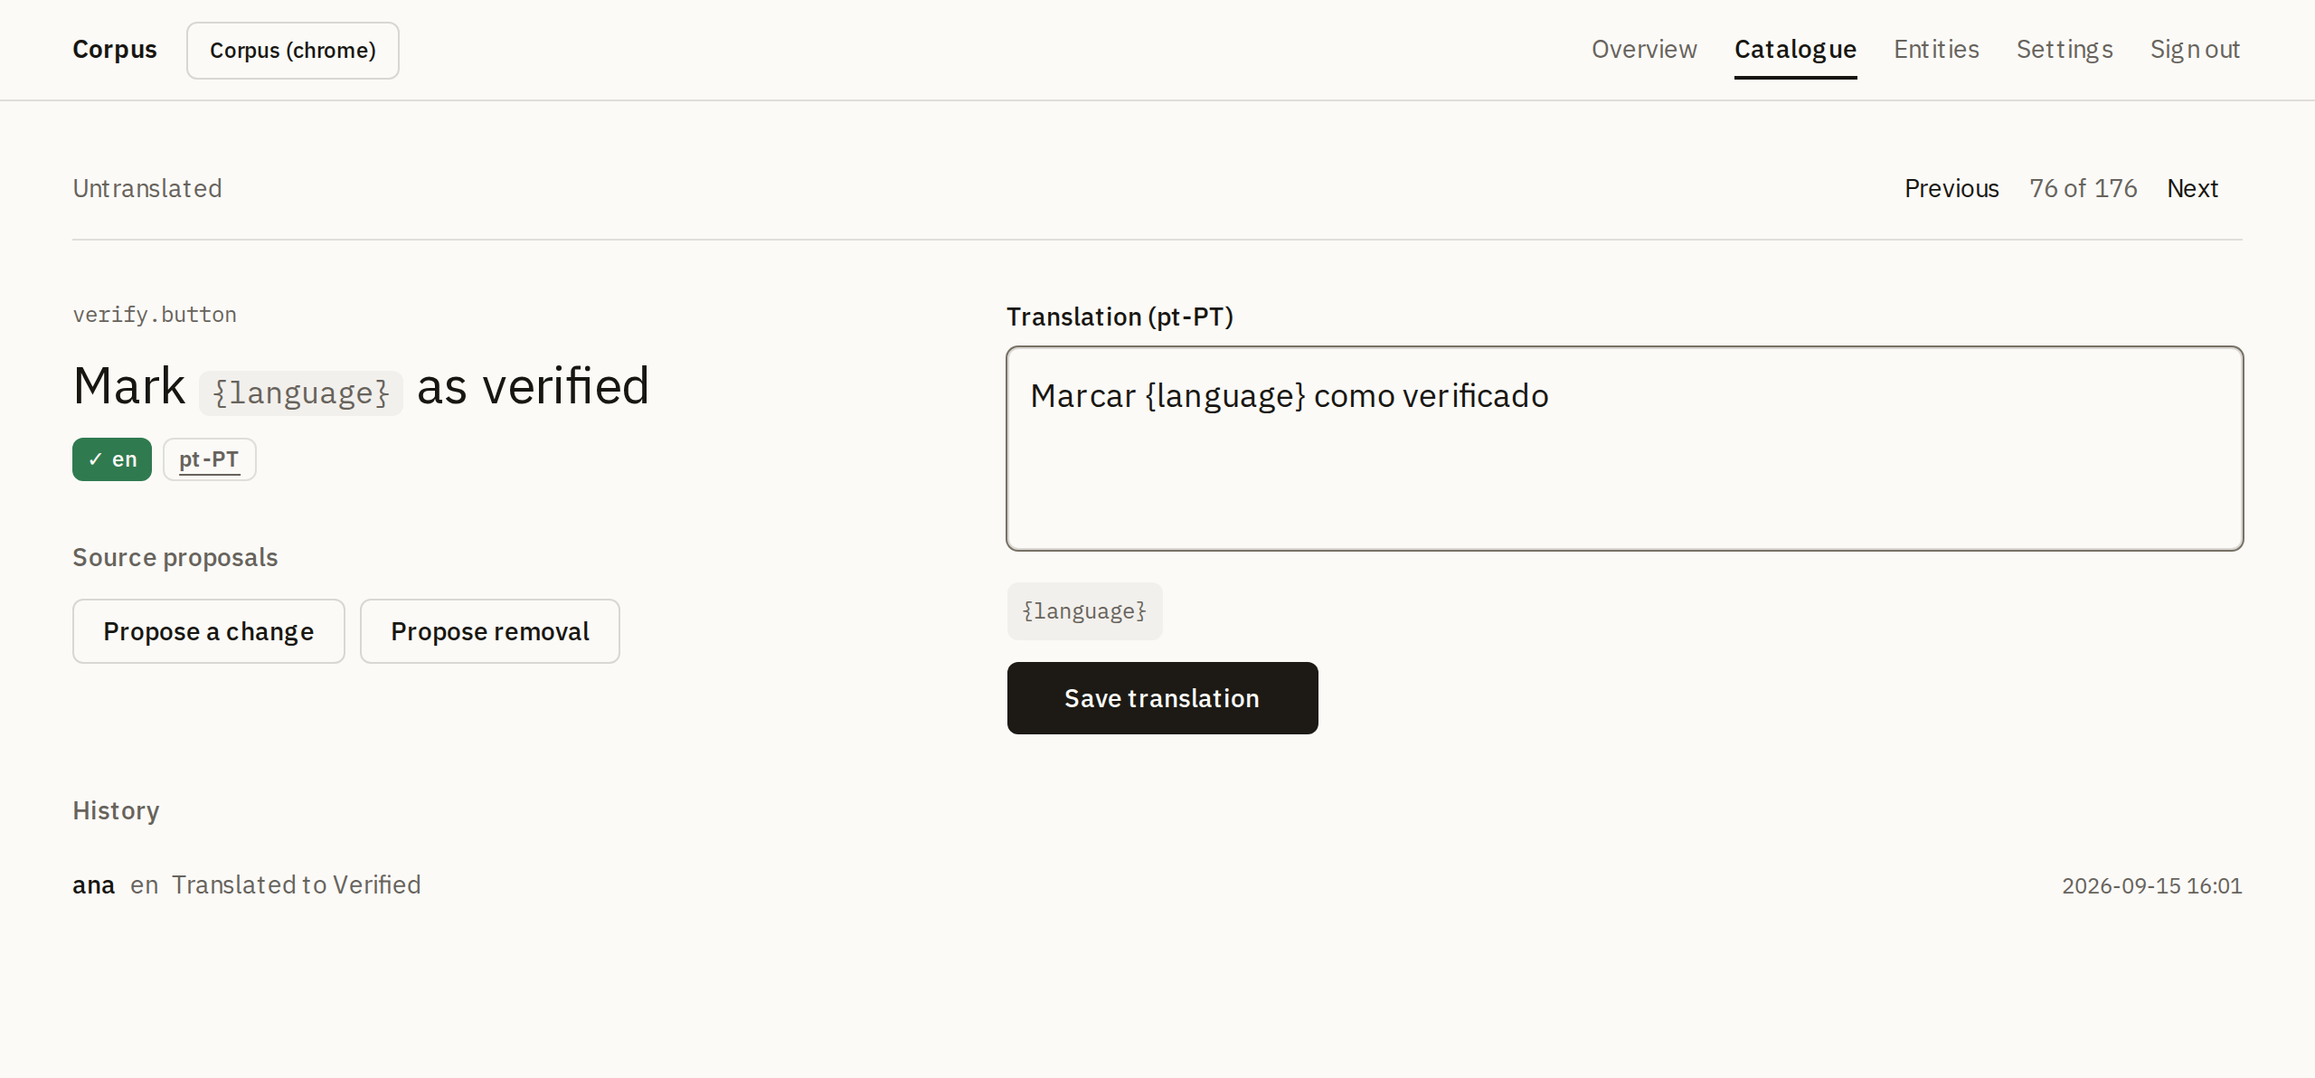
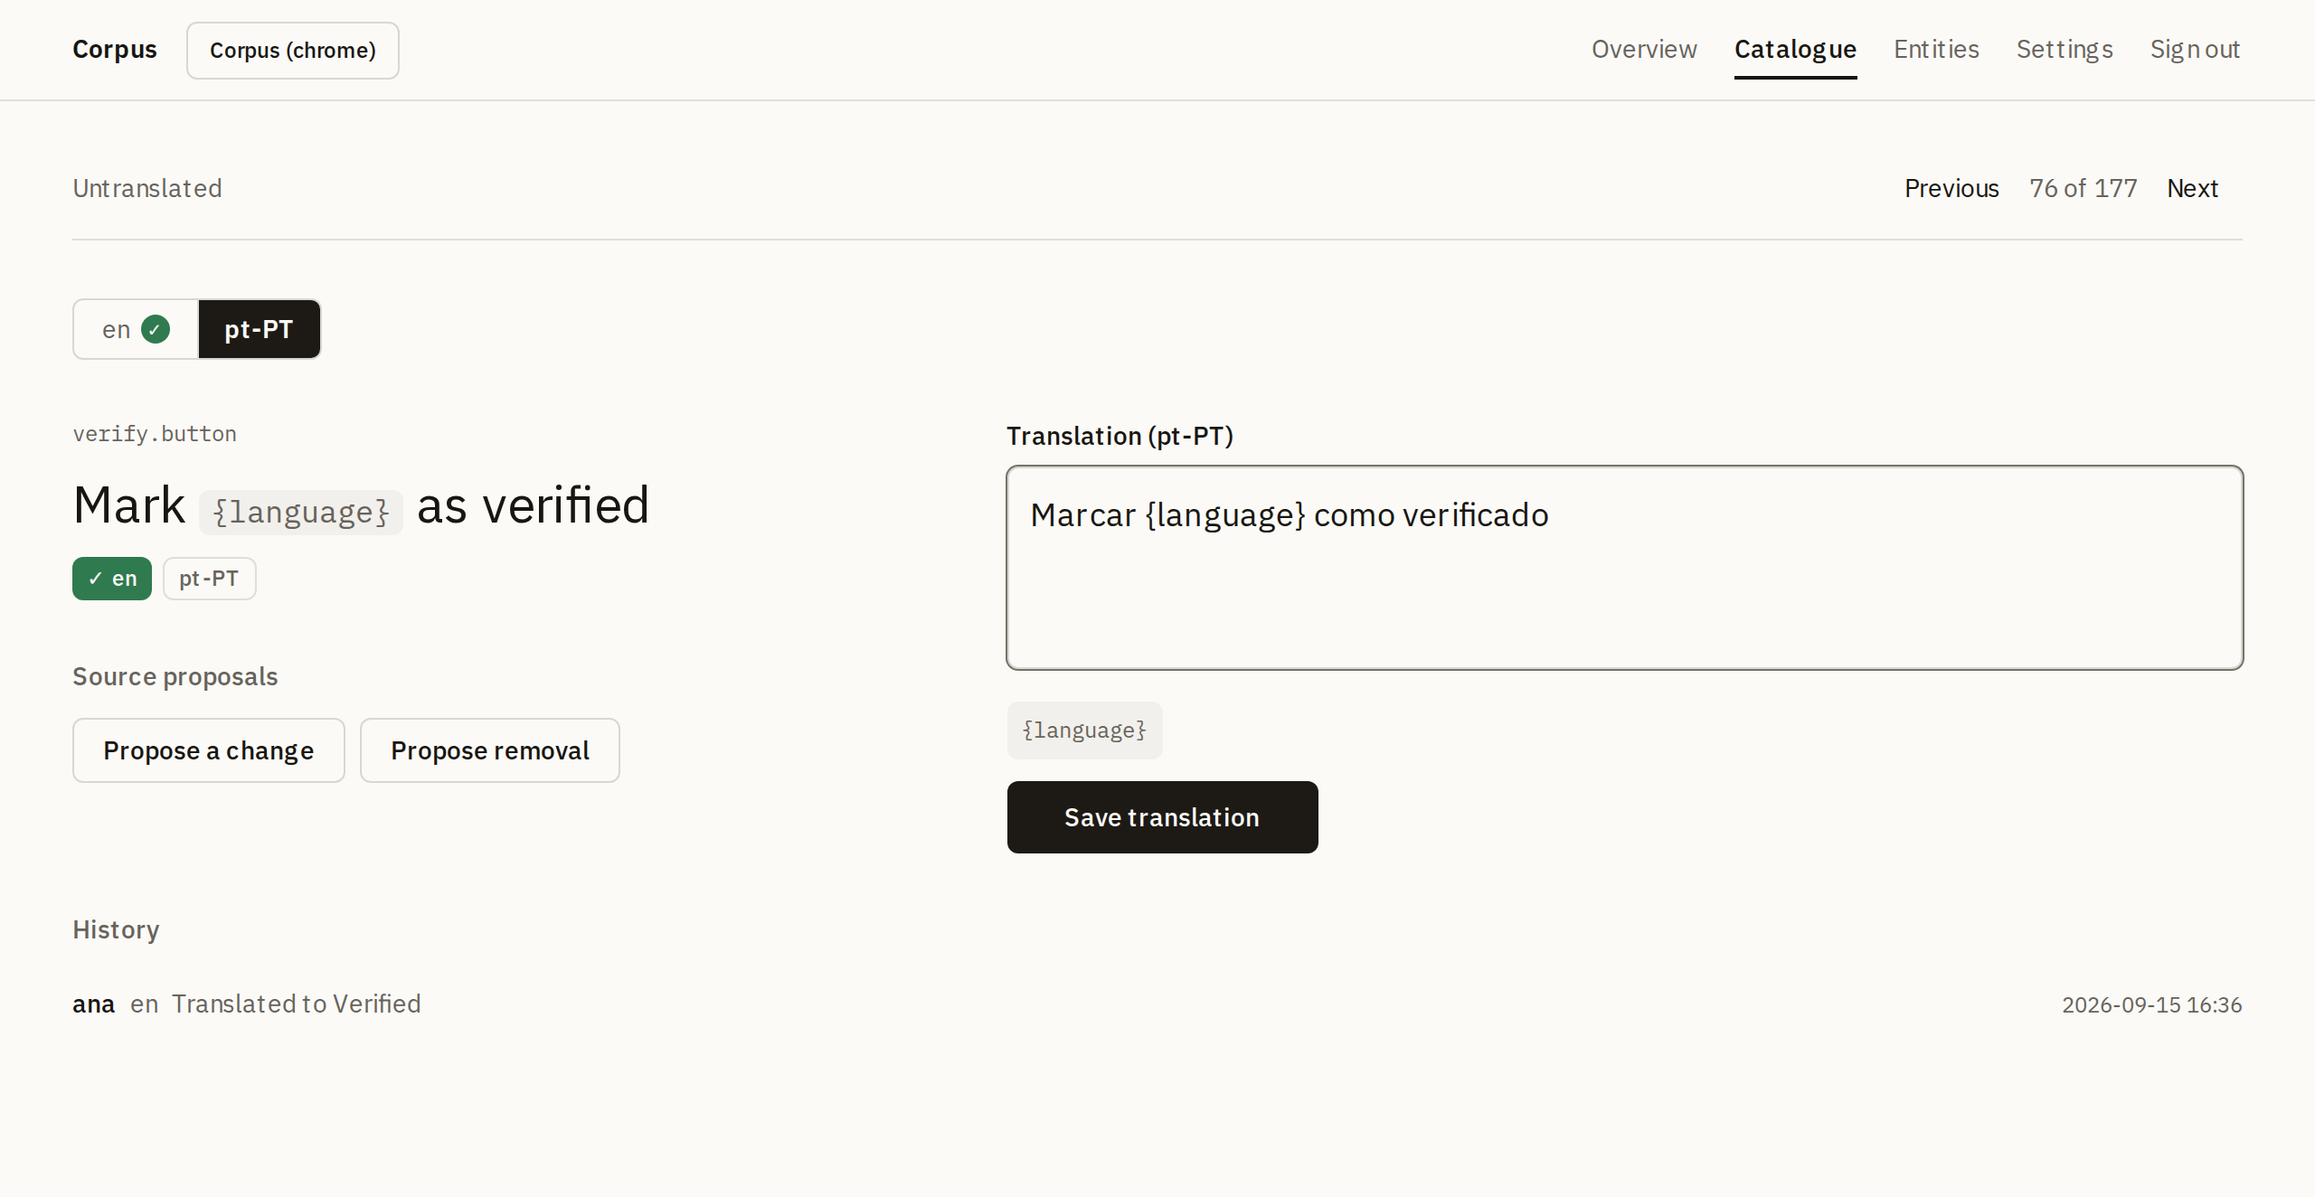
Editor: a language bar under the queue bar replaces the chip links (#337)
One segment per language, the selected one solid, the source language
first with its verified mark, no words beside the codes; full width and
thumb height on a phone, a slim inline control on a desktop; each
segment a link through languageSwitchPath. The state chips are display
only again. Spec §9.3 and the README's editor alt texts say so; the
screenshots are retaken.

diff --git a/apps/web/src/components/state-chips.tsx b/apps/web/src/components/state-chips.tsx
@@ -1,74 +1,36 @@
-import Link from "next/link";
 import { t } from "@/i18n";
 import type { LanguageState } from "@/catalogue/query";
-import { Chip, chipVariants } from "@/components/ui/chip";
-import { cn } from "@/lib/utils";
+import { Chip } from "@/components/ui/chip";
 import { STATE_KEY, STATE_VARIANT } from "./state-label";
 
-// With `hrefFor`, the chips are the editor's language switcher (§9.3):
-// each a link to the same string in that language, the selected one
-// marked for assistive technology and by weight and underline on the
-// language itself, never by colour alone.
+// Per-language state chips (§9.2): display only; the editor's switcher
+// is the language bar.
 export function StateChips({
   languages,
   states,
-  hrefFor,
-  selected,
 }: {
   languages: string[];
   states: Record<string, LanguageState>;
-  hrefFor?: (language: string) => string;
-  selected?: string;
 }) {
   return (
     <div className="flex flex-wrap gap-1.5">
       {languages.map((language) => {
         const value = states[language];
         const state = value?.state ?? "untranslated";
-        const current = hrefFor !== undefined && language === selected;
-        const content = (
-          <>
+        return (
+          <Chip
+            key={language}
+            variant={STATE_VARIANT[state]}
+            title={t(STATE_KEY[state])}
+          >
             {state === "verified" && <span aria-hidden="true">✓</span>}
-            <span
-              className={cn(
-                "font-medium",
-                current && "font-semibold underline underline-offset-4",
-              )}
-            >
-              {language}
-            </span>
+            <span className="font-medium">{language}</span>
             {value?.stale && (
               <span className="rounded-sm bg-state-stale px-1 text-state-stale-foreground">
                 {t("state.stale")}
               </span>
             )}
-          </>
-        );
-        if (!hrefFor) {
-          return (
-            <Chip
-              key={language}
-              variant={STATE_VARIANT[state]}
-              title={t(STATE_KEY[state])}
-            >
-              {content}
-            </Chip>
-          );
-        }
-        return (
-          <Link
-            key={language}
-            href={hrefFor(language)}
-            title={t(STATE_KEY[state])}
-            aria-current={current ? "page" : undefined}
-            className={chipVariants({
-              variant: STATE_VARIANT[state],
-              className:
-                "hover:underline focus-visible:outline-none focus-visible:ring-1 focus-visible:ring-ring",
-            })}
-          >
-            {content}
-          </Link>
+          </Chip>
         );
       })}
     </div>

diff --git a/apps/web/src/app/p/[slug]/s/[stringId]/page.tsx b/apps/web/src/app/p/[slug]/s/[stringId]/page.tsx
@@ -13,6 +13,7 @@ import { QueueNav } from "@/components/queue-nav";
 import { SourceView } from "@/components/source-view";
 import { OtherLanguages } from "@/components/other-languages";
 import { ProposalPanel } from "@/components/proposal-panel";
+import { LanguageBar } from "@/components/language-bar";
 import { StateChips } from "@/components/state-chips";
 import { languageSwitchPath } from "@/strings/paths";
 import { TargetPane, type Slot } from "@/components/target-pane";
@@ -156,6 +157,26 @@ export default async function StringPage({
           />
         </div>
       )}
+      <LanguageBar
+        languages={project.languages}
+        sourceLanguage={project.sourceLanguage}
+        selected={actedLanguage}
+        states={translations}
+        hrefFor={languageSwitchPath({
+          slug,
+          key: string.key,
+          sourceLanguage: project.sourceLanguage,
+          queue:
+            queueKind && queue
+              ? {
+                  kind: queueKind,
+                  languages: queue.items
+                    .filter((item) => item.stringId === string.id)
+                    .map((item) => item.language),
+                }
+              : undefined,
+        })}
+      />
       <div
         className={
           editing
@@ -180,25 +201,7 @@ export default async function StringPage({
             {query.warning === "changed" && (
               <Banner tone="warning">{t("verify.warningChanged")}</Banner>
             )}
-            <StateChips
-              languages={project.languages}
-              states={translations}
-              selected={actedLanguage}
-              hrefFor={languageSwitchPath({
-                slug,
-                key: string.key,
-                sourceLanguage: project.sourceLanguage,
-                queue:
-                  queueKind && queue
-                    ? {
-                        kind: queueKind,
-                        languages: queue.items
-                          .filter((item) => item.stringId === string.id)
-                          .map((item) => item.language),
-                      }
-                    : undefined,
-              })}
-            />
+            <StateChips languages={project.languages} states={translations} />
             <MetadataChips
               declarations={declarations}
               metadata={string.metadata ?? {}}

diff --git a/apps/web/src/components/language-bar.tsx b/apps/web/src/components/language-bar.tsx
@@ -1,0 +1,63 @@
+import Link from "next/link";
+import type { LanguageState } from "@/catalogue/query";
+import { t } from "@/i18n";
+import { cn } from "@/lib/utils";
+
+// The language switcher (§9.3): one segment per language of the
+// project, the selected one solid, the source language first with its
+// verified mark; each a link to the same string in that language, the
+// queue kept when the row is in it (languageSwitchPath). Full width and
+// thumb height on a phone, a slim inline control on a desktop.
+export function LanguageBar({
+  languages,
+  sourceLanguage,
+  selected,
+  states,
+  hrefFor,
+}: {
+  languages: string[];
+  sourceLanguage: string;
+  selected: string;
+  states: Record<string, LanguageState>;
+  hrefFor: (language: string) => string;
+}) {
+  return (
+    <nav
+      aria-label={t("editor.languages")}
+      className="grid overflow-hidden rounded-md border border-input lg:inline-grid"
+      style={{
+        gridTemplateColumns: `repeat(${languages.length}, minmax(0, 1fr))`,
+      }}
+    >
+      {languages.map((language, index) => {
+        const current = language === selected;
+        const verified =
+          language === sourceLanguage && states[language]?.state === "verified";
+        return (
+          <Link
+            key={language}
+            href={hrefFor(language)}
+            aria-current={current ? "page" : undefined}
+            className={cn(
+              "flex min-h-11 items-center justify-center gap-1.5 px-3 text-[15px] focus-visible:outline-none focus-visible:ring-1 focus-visible:ring-ring lg:min-h-8 lg:px-3.5 lg:text-sm",
+              index > 0 && "border-l border-input",
+              current
+                ? "bg-primary font-semibold text-primary-foreground"
+                : "text-muted-foreground hover:bg-accent hover:text-foreground",
+            )}
+          >
+            {language}
+            {verified && (
+              <span
+                aria-hidden="true"
+                className="inline-flex h-4 w-4 items-center justify-center rounded-full bg-state-verified text-[10px] text-state-verified-foreground"
+              >
+                ✓
+              </span>
+            )}
+          </Link>
+        );
+      })}
+    </nav>
+  );
+}

diff --git a/apps/web/src/components/language-bar.test.tsx b/apps/web/src/components/language-bar.test.tsx
@@ -1,0 +1,47 @@
+// @vitest-environment jsdom
+import { cleanup, render, screen } from "@testing-library/react";
+import { afterEach, expect, test } from "vitest";
+import { LanguageBar } from "./language-bar";
+
+afterEach(cleanup);
+
+function bar(selected = "en") {
+  render(
+    <LanguageBar
+      languages={["pt-PT", "en", "fr"]}
+      sourceLanguage="pt-PT"
+      selected={selected}
+      states={{
+        "pt-PT": { state: "verified", stale: false },
+        en: { state: "untranslated", stale: false },
+      }}
+      hrefFor={(language) =>
+        language === "pt-PT" ? "/p/mm/s/k" : `/p/mm/s/k?language=${language}`
+      }
+    />,
+  );
+}
+
+test("one segment per language, each a link, the selected one current", () => {
+  bar();
+  const links = screen.getAllByRole("link");
+  expect(links.map((l) => l.textContent?.replace("✓", "").trim())).toEqual([
+    "pt-PT",
+    "en",
+    "fr",
+  ]);
+  expect(links[1]?.getAttribute("aria-current")).toBe("page");
+  expect(links[0]?.getAttribute("aria-current")).toBeNull();
+  expect(links[2]?.getAttribute("href")).toBe("/p/mm/s/k?language=fr");
+  expect(links[0]?.getAttribute("href")).toBe("/p/mm/s/k");
+});
+
+test("the source language carries its verified mark, hidden from the name", () => {
+  bar("pt-PT");
+  const source = screen.getByRole("link", { name: "pt-PT" });
+  expect(source.getAttribute("aria-current")).toBe("page");
+  expect(source.querySelector("[aria-hidden]")?.textContent).toBe("✓");
+  expect(
+    screen.getByRole("link", { name: "en" }).querySelector("[aria-hidden]"),
+  ).toBeNull();
+});

diff --git a/apps/web/src/components/state-chips.test.tsx b/apps/web/src/components/state-chips.test.tsx
@@ -60,21 +60,3 @@ test("the three states are visibly distinct, not only by colour", () => {
   expect(chip("c").textContent).toMatch(/✓/);
   expect(chip("b").textContent).not.toMatch(/✓/);
 });
-
-test("with hrefFor the chips are links and the selected language is marked", () => {
-  render(
-    <StateChips
-      languages={["pt-PT", "en"]}
-      states={{ "pt-PT": { state: "verified", stale: false } }}
-      selected="en"
-      hrefFor={(language) => `/p/mm/s/key?language=${language}`}
-    />,
-  );
-  const en = screen.getByRole("link", { name: /en/ });
-  expect(en.getAttribute("href")).toBe("/p/mm/s/key?language=en");
-  expect(en.getAttribute("aria-current")).toBe("page");
-  expect(screen.getByText("en").className).toMatch(/underline/);
-  const source = screen.getByRole("link", { name: /pt-PT/ });
-  expect(source.getAttribute("aria-current")).toBeNull();
-  expect(screen.getByText("pt-PT").className).not.toMatch(/underline/);
-});

diff --git a/docs/corpus-design.md b/docs/corpus-design.md
@@ -260,7 +260,7 @@ All surfaces are project-scoped under `/p/[slug]/…`, with a project switcher (
 
 1. **Dashboard** — per-language progress bars broken down by string type; **queues** as buttons: *untranslated (n)*, *stale (n)*, *unverified source (n)*. Tapping a queue opens the editor at its first item. A translator should never wonder what to work on. The same numbers, from the same query, are the `/api/status` response, read with the project token, and the output of `corpus status` (§3).
 2. **Catalogue** — every string; FTS5 search (accent-insensitive); facet filters auto-generated from metadata declarations plus type, state, language, archived. A language alone lists the strings with text in it (translated or verified, stale included); a state alone, the strings in that state in any language; both, that state in that language. Rows show per-language state chips and a pending mark when the string has a proposal; click into the editor. **Add a string** (anyone on the instance) takes a key, a source file chosen among the writable sources push declared, which fixes the type since a source has one, and the source text, validated as a source (§5); the key must be a valid identifier and not an existing id, active or archived, since an add on an existing key is an edit and on an archived one a restore, both done on the string itself. It records a pending add (§11). This surface is the aggregation/verification view and is fully useful before any translation exists.
-3. **Editor** — source left (branch view for selects, placeholder chips, metadata chips, entity cards in a side rail, examples), target right (chip-insertable placeholders — no hand-typed braces), live preview from the draft using example values (the selected language's when the example carries them, §7), save (→ `translated`) and verify (→ `verified`, maintainer only), visible attributed history, next/previous at thumb height to flow through a queue. Validation feedback is inline and specific ("missing {witness}"). The per-language state chips at the top are the **language switcher**: one per language, the selected one marked; the queue the person came from is kept when the switched-to row is in it, and dropped otherwise, so next and previous never point at a row the queue does not contain; the source language's chip is the proofreading view. Placeholder chips keep the token as their text and show the resolved value on hover (§7). Under the source, anyone may **propose a change** to the source text (the same chips and validation as the target pane; the text must parse as a source) or **propose removal**; a pending proposal shows its text and author, can be withdrawn, and stays visible until a push lands or supersedes it, a newer proposal replaces it, or it is withdrawn. A string whose source pull cannot write, an `exec` source or a `.ts` or `.js` catalogue (§4), shows why instead of the buttons. Under the source pane, **the other languages**, every language except the source and the selected target, are readable: current text or a quiet "No translation yet", the state, stale marked; read only, so save and verify act on one target at a time.
+3. **Editor** — source left (branch view for selects, placeholder chips, metadata chips, entity cards in a side rail, examples), target right (chip-insertable placeholders — no hand-typed braces), live preview from the draft using example values (the selected language's when the example carries them, §7), save (→ `translated`) and verify (→ `verified`, maintainer only), visible attributed history, next/previous at thumb height to flow through a queue. Validation feedback is inline and specific ("missing {witness}"). A **language bar** under the queue bar is the switcher: one segment per language of the project, the selected one solid, the source language first with its verified mark, no words beside the codes; the queue the person came from is kept when the switched-to row is in it, and dropped otherwise, so next and previous never point at a row the queue does not contain; the source language's segment is the proofreading view. The state chips are display only. Placeholder chips keep the token as their text and show the resolved value on hover (§7). Under the source, anyone may **propose a change** to the source text (the same chips and validation as the target pane; the text must parse as a source) or **propose removal**; a pending proposal shows its text and author, can be withdrawn, and stays visible until a push lands or supersedes it, a newer proposal replaces it, or it is withdrawn. A string whose source pull cannot write, an `exec` source or a `.ts` or `.js` catalogue (§4), shows why instead of the buttons. Under the source pane, **the other languages**, every language except the source and the selected target, are readable: current text or a quiet "No translation yet", the state, stale marked; read only, so save and verify act on one target at a time.
 4. **Entity browser** — read-only cards per entity type, narrowed by a type chip or a name search once a project has hundreds.
 5. **Maintainer corner** — project settings, push token (generate/rotate), snapshot history (when, counts, stale caused), language list, seen users. Visible to maintainers only. Adding a language creates an `untranslated` row for every active string at once (§11), so the dashboard, the queues and the catalogue show it without a push; removing one keeps its rows for when it comes back.
 

diff --git a/README.md b/README.md
@@ -17,7 +17,7 @@
 <p align="center">
   <picture>
     <source media="(prefers-color-scheme: dark)" srcset="docs/screenshots/editor-structured-desktop-dark.png">
-    <img src="docs/screenshots/editor-structured-desktop-light.png" width="960" alt="The editor: on the left a source sentence whose gendered select reads inline as visto / vista with a strip naming its keys, the language chips that switch the target, the other languages' current text, and the related trait and characters beneath; on the right the English draft with insertable placeholder and select chips, two live previews built from the example's English values, and the save button.">
+    <img src="docs/screenshots/editor-structured-desktop-light.png" width="960" alt="The editor: on the left a source sentence whose gendered select reads inline as visto / vista with a strip naming its keys, the language bar that switches the target, the other languages' current text, and the related trait and characters beneath; on the right the English draft with insertable placeholder and select chips, two live previews built from the example's English values, and the save button.">
   </picture>
 </p>
 
@@ -178,7 +178,7 @@ Source text and metadata belong to the repository, which wins once merged; Corpu
   </picture>
   <picture>
     <source media="(prefers-color-scheme: dark)" srcset="docs/screenshots/editor-desktop-dark.png">
-    <img src="docs/screenshots/editor-desktop-light.png" width="960" alt="The editor on one of Corpus's own strings: the source with a placeholder chip on the left, the language chips above it (en verified, pt-PT selected), the Portuguese draft on the right with the placeholder chip to insert and the save button, and the queue navigation above.">
+    <img src="docs/screenshots/editor-desktop-light.png" width="960" alt="The editor on one of Corpus's own strings: the source with a placeholder chip on the left, the language bar above it (en verified, pt-PT selected), the Portuguese draft on the right with the placeholder chip to insert and the save button, and the queue navigation above.">
   </picture>
   <picture>
     <source media="(prefers-color-scheme: dark)" srcset="docs/screenshots/entities-desktop-dark.png">
